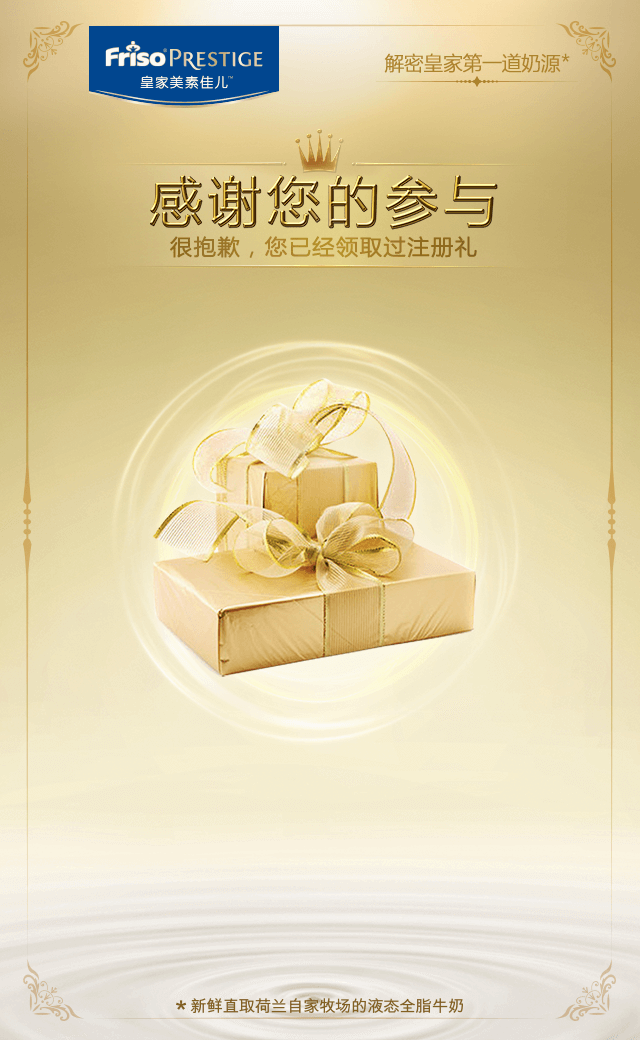
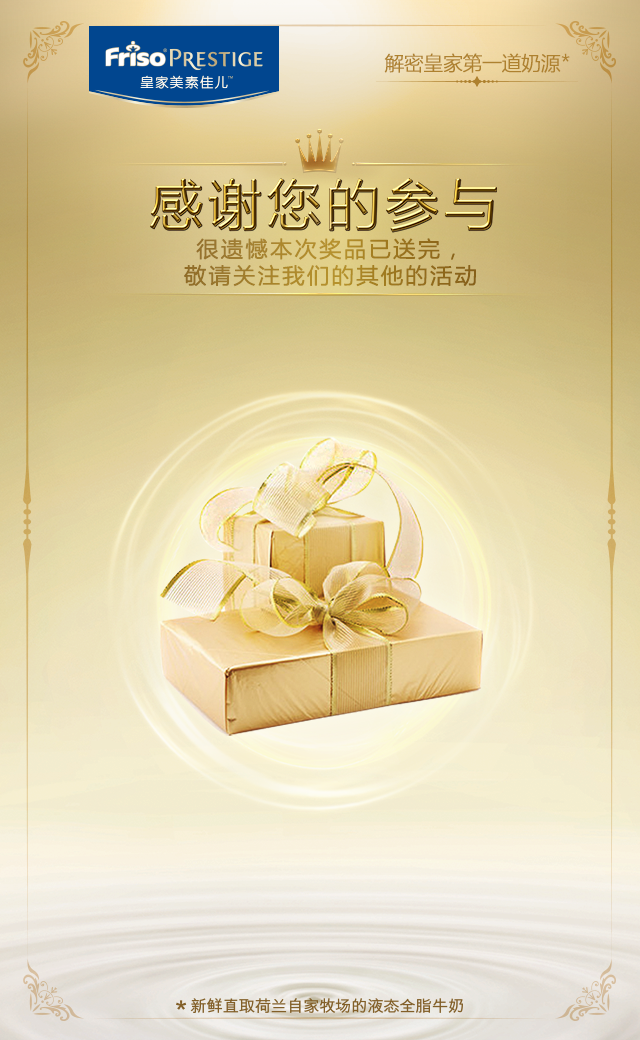
添加兑换商品成功界面

diff --git a/resources/views/yp/index.blade.php b/resources/views/yp/index.blade.php
@@ -8,9 +8,10 @@
 	</head>
 	<body>
 		<!--领取优惠券页面-->
-		<div class="draw all ">
+		<div class="draw all hidden">
 			<img src="{{ asset('yp/img/lq.png') }}"/>
 		</div>
+		
 		<!--未购买产品用户页面-->
 		<div class="undraw all hidden">
 			<img class="undrawbg" src=""/>
@@ -22,6 +23,13 @@
 			<img class="accbg" src="{{ asset('yp/img/accprize/accbg.png') }}"/>
 			<img class="accbtn" src="{{ asset('yp/img/accprize/accbtn.png') }}"/>
 		</div>
+		
+		<!--兑换奖品成功-->
+		<div class="all accPrize">
+			<img class="accbg" src="{{ asset('yp/img/accprize/success.png') }}"/>
+			<img class="accbtn" src="{{ asset('yp/img/accprize/accbtn.png') }}"/>
+		</div>
+		
 		<!--参加活动说明-->
 		<div class="all activity hidden">
 			<img src="{{ asset('yp/img/acctivity/activitybg.png') }}" alt="" class="activitybg" />
